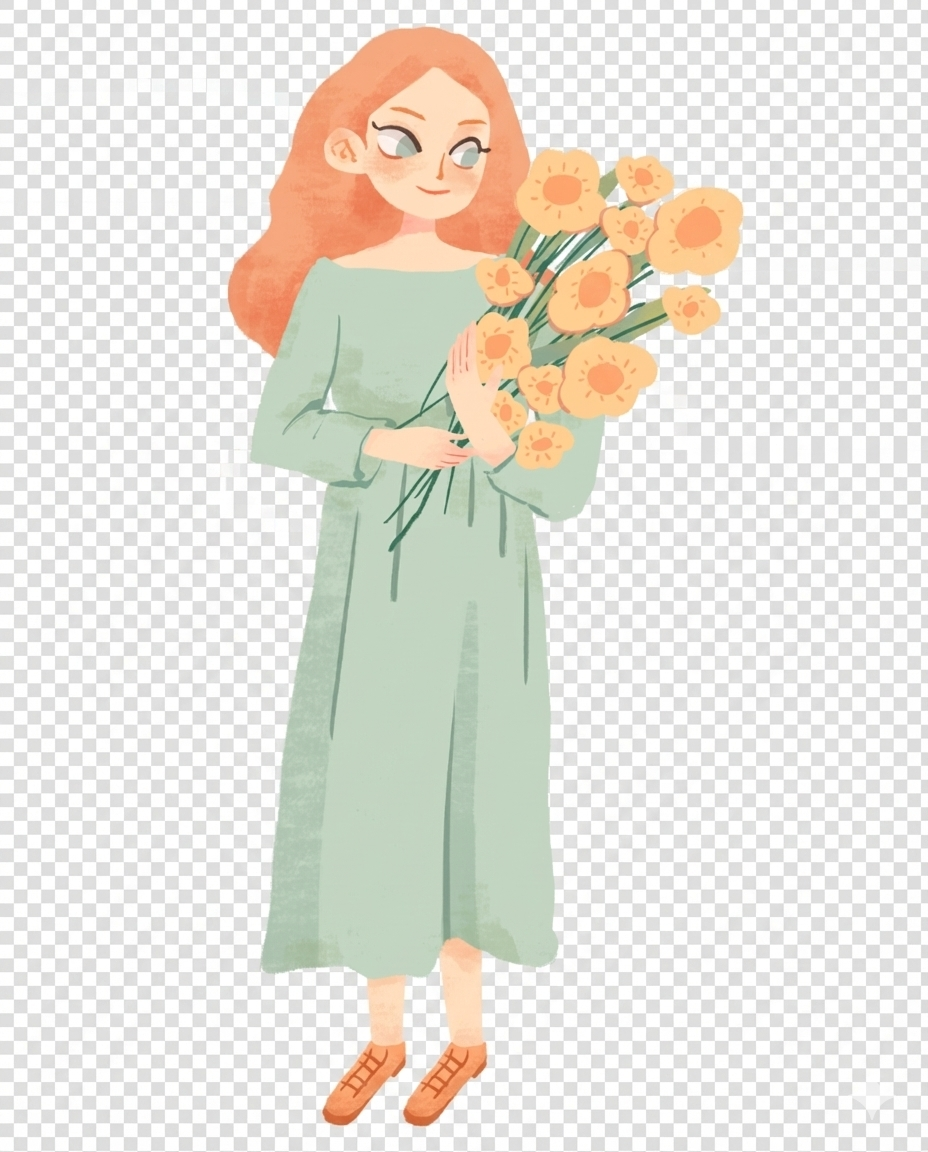
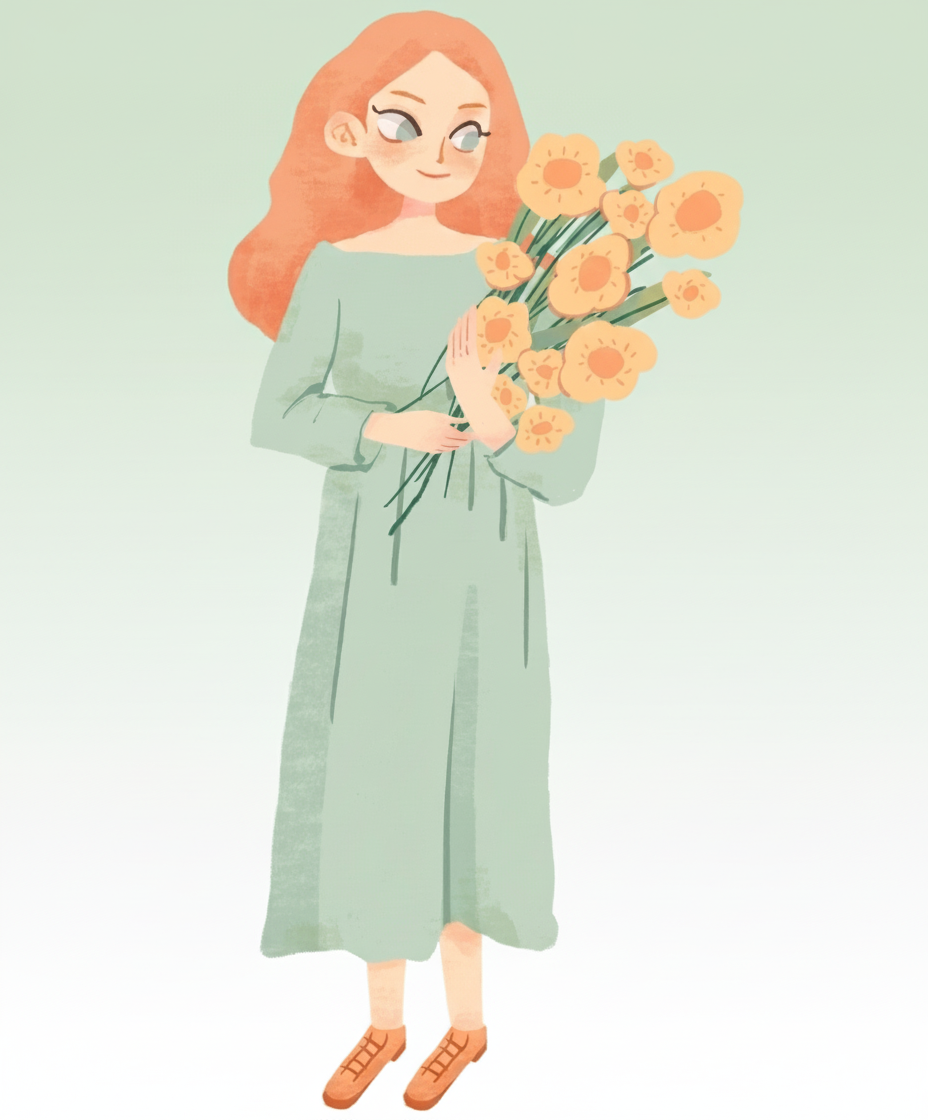
Changes

diff --git a/src/pages/GardenPlan.tsx b/src/pages/GardenPlan.tsx
@@ -516,24 +516,17 @@ const GardenPlan = () => {
                         <div className="absolute inset-0 rounded-full border-4 border-green-400/50 animate-ping scale-105" style={{ animationDuration: '1.5s' }} />
                       </>
                     )}
-                    <div 
-                      className="bg-gradient-to-b from-green-50 to-white dark:from-gray-900 dark:to-gray-800 p-4"
-                      style={{ 
-                        borderRadius: '60% 40% 45% 55% / 50% 60% 40% 50%',
-                      }}
-                    >
-                      <img 
-                        src={janeAvatar} 
-                        alt="Jane - Your Garden Assistant" 
-                        className={`relative h-40 sm:h-56 md:h-64 object-contain drop-shadow-xl transition-all duration-300 ${
-                          isListening 
-                            ? 'animate-gentle-bounce drop-shadow-[0_0_20px_rgba(34,197,94,0.4)]' 
-                            : isSpeaking 
-                            ? 'animate-gentle-bounce drop-shadow-[0_0_25px_rgba(59,130,246,0.5)]' 
-                            : 'group-hover:drop-shadow-2xl'
-                        }`}
-                      />
-                    </div>
+                    <img 
+                      src={janeAvatar} 
+                      alt="Jane - Your Garden Assistant" 
+                      className={`relative h-40 sm:h-56 md:h-64 object-contain drop-shadow-xl transition-all duration-300 rounded-2xl ${
+                        isListening 
+                          ? 'animate-gentle-bounce drop-shadow-[0_0_20px_rgba(34,197,94,0.4)]' 
+                          : isSpeaking 
+                          ? 'animate-gentle-bounce drop-shadow-[0_0_25px_rgba(59,130,246,0.5)]' 
+                          : 'group-hover:drop-shadow-2xl'
+                      }`}
+                    />
                     {/* Status indicator */}
                     <div className={`absolute -bottom-2 left-1/2 -translate-x-1/2 px-2 sm:px-3 py-1 rounded-full text-xs font-semibold whitespace-nowrap transition-all ${
                       isListening 
